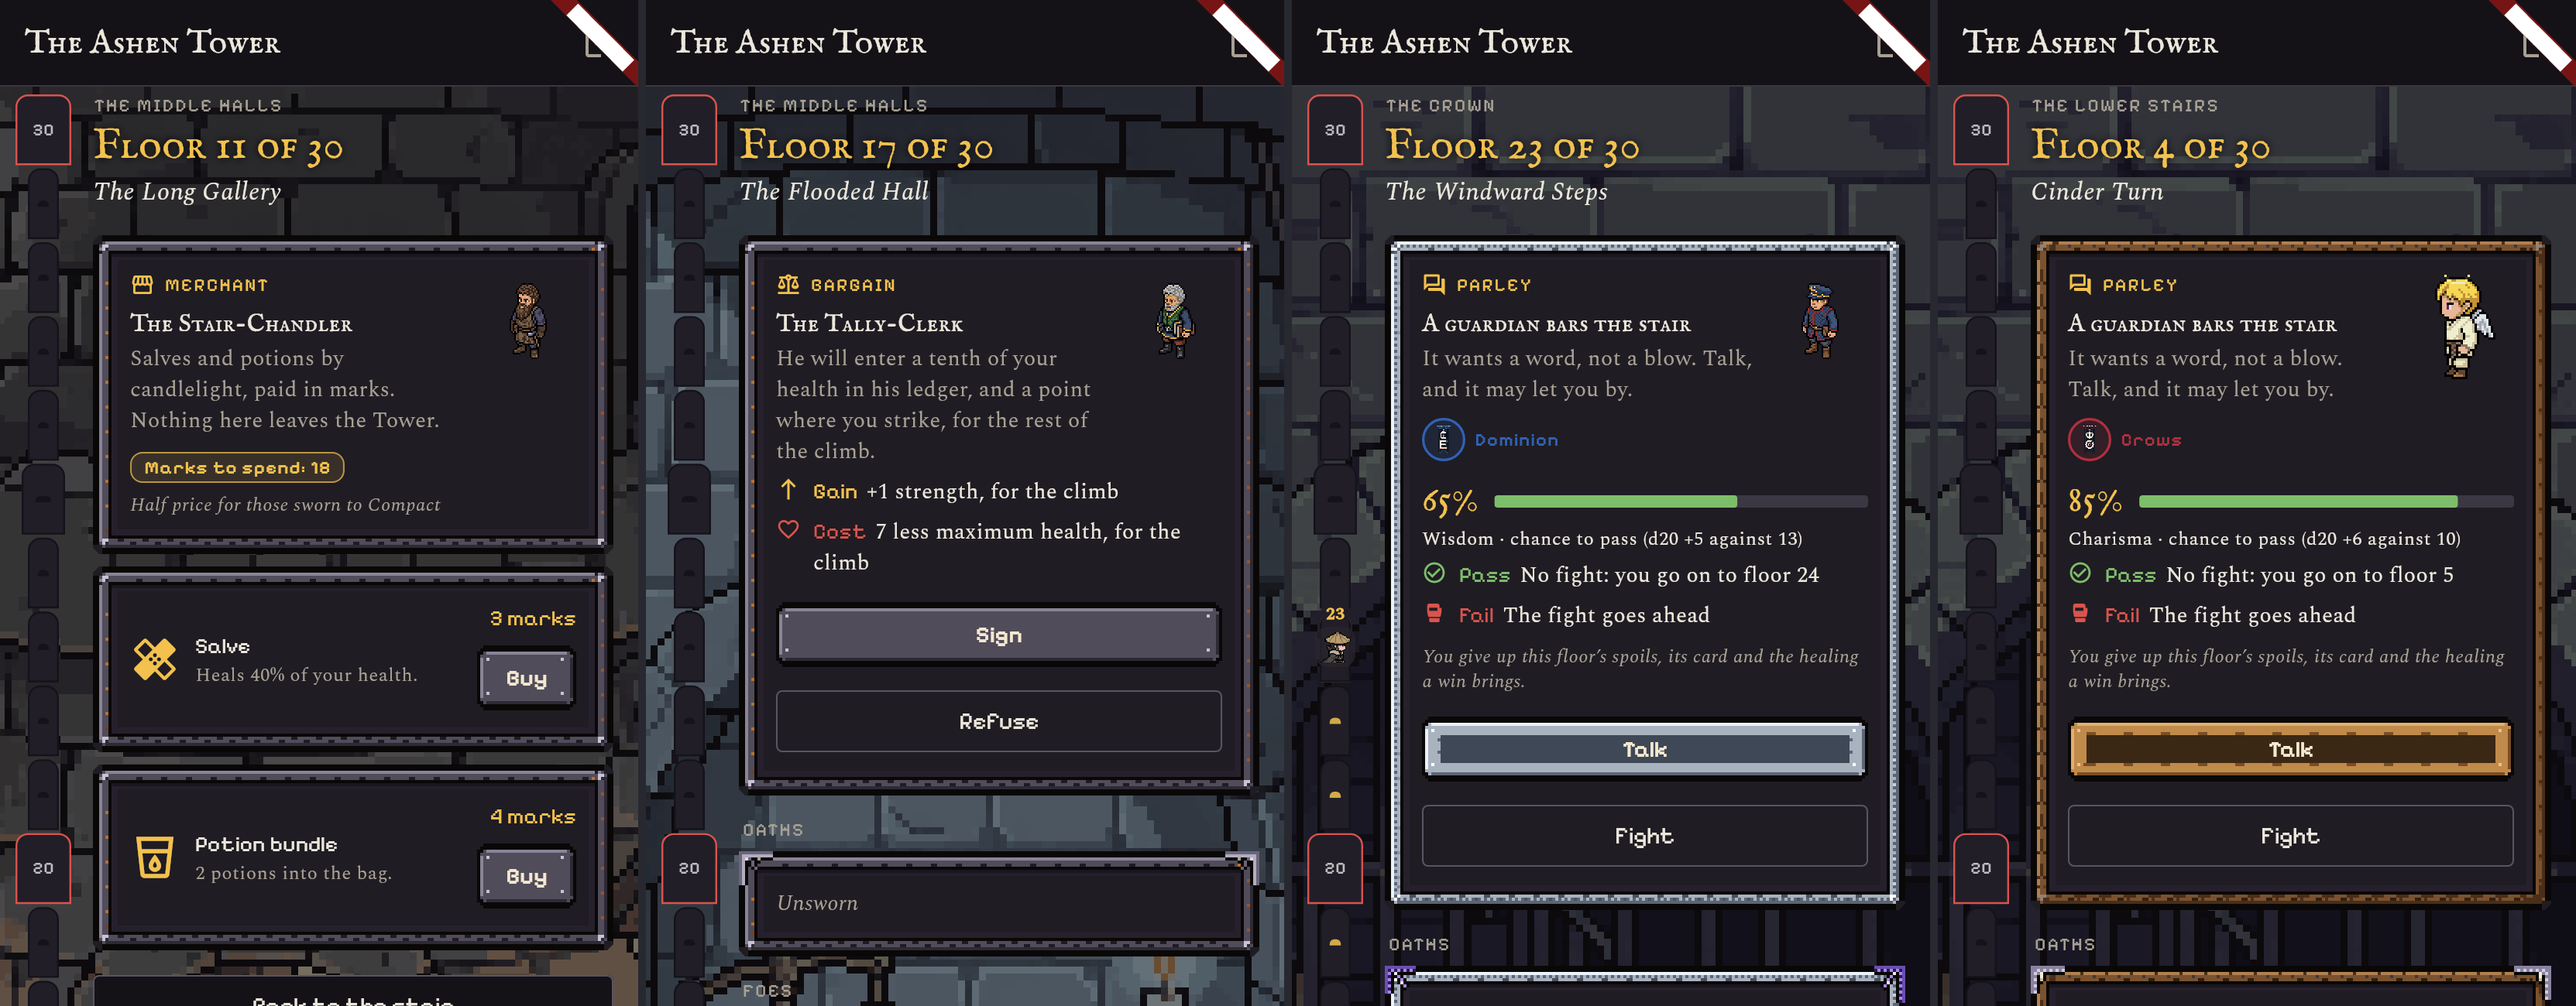
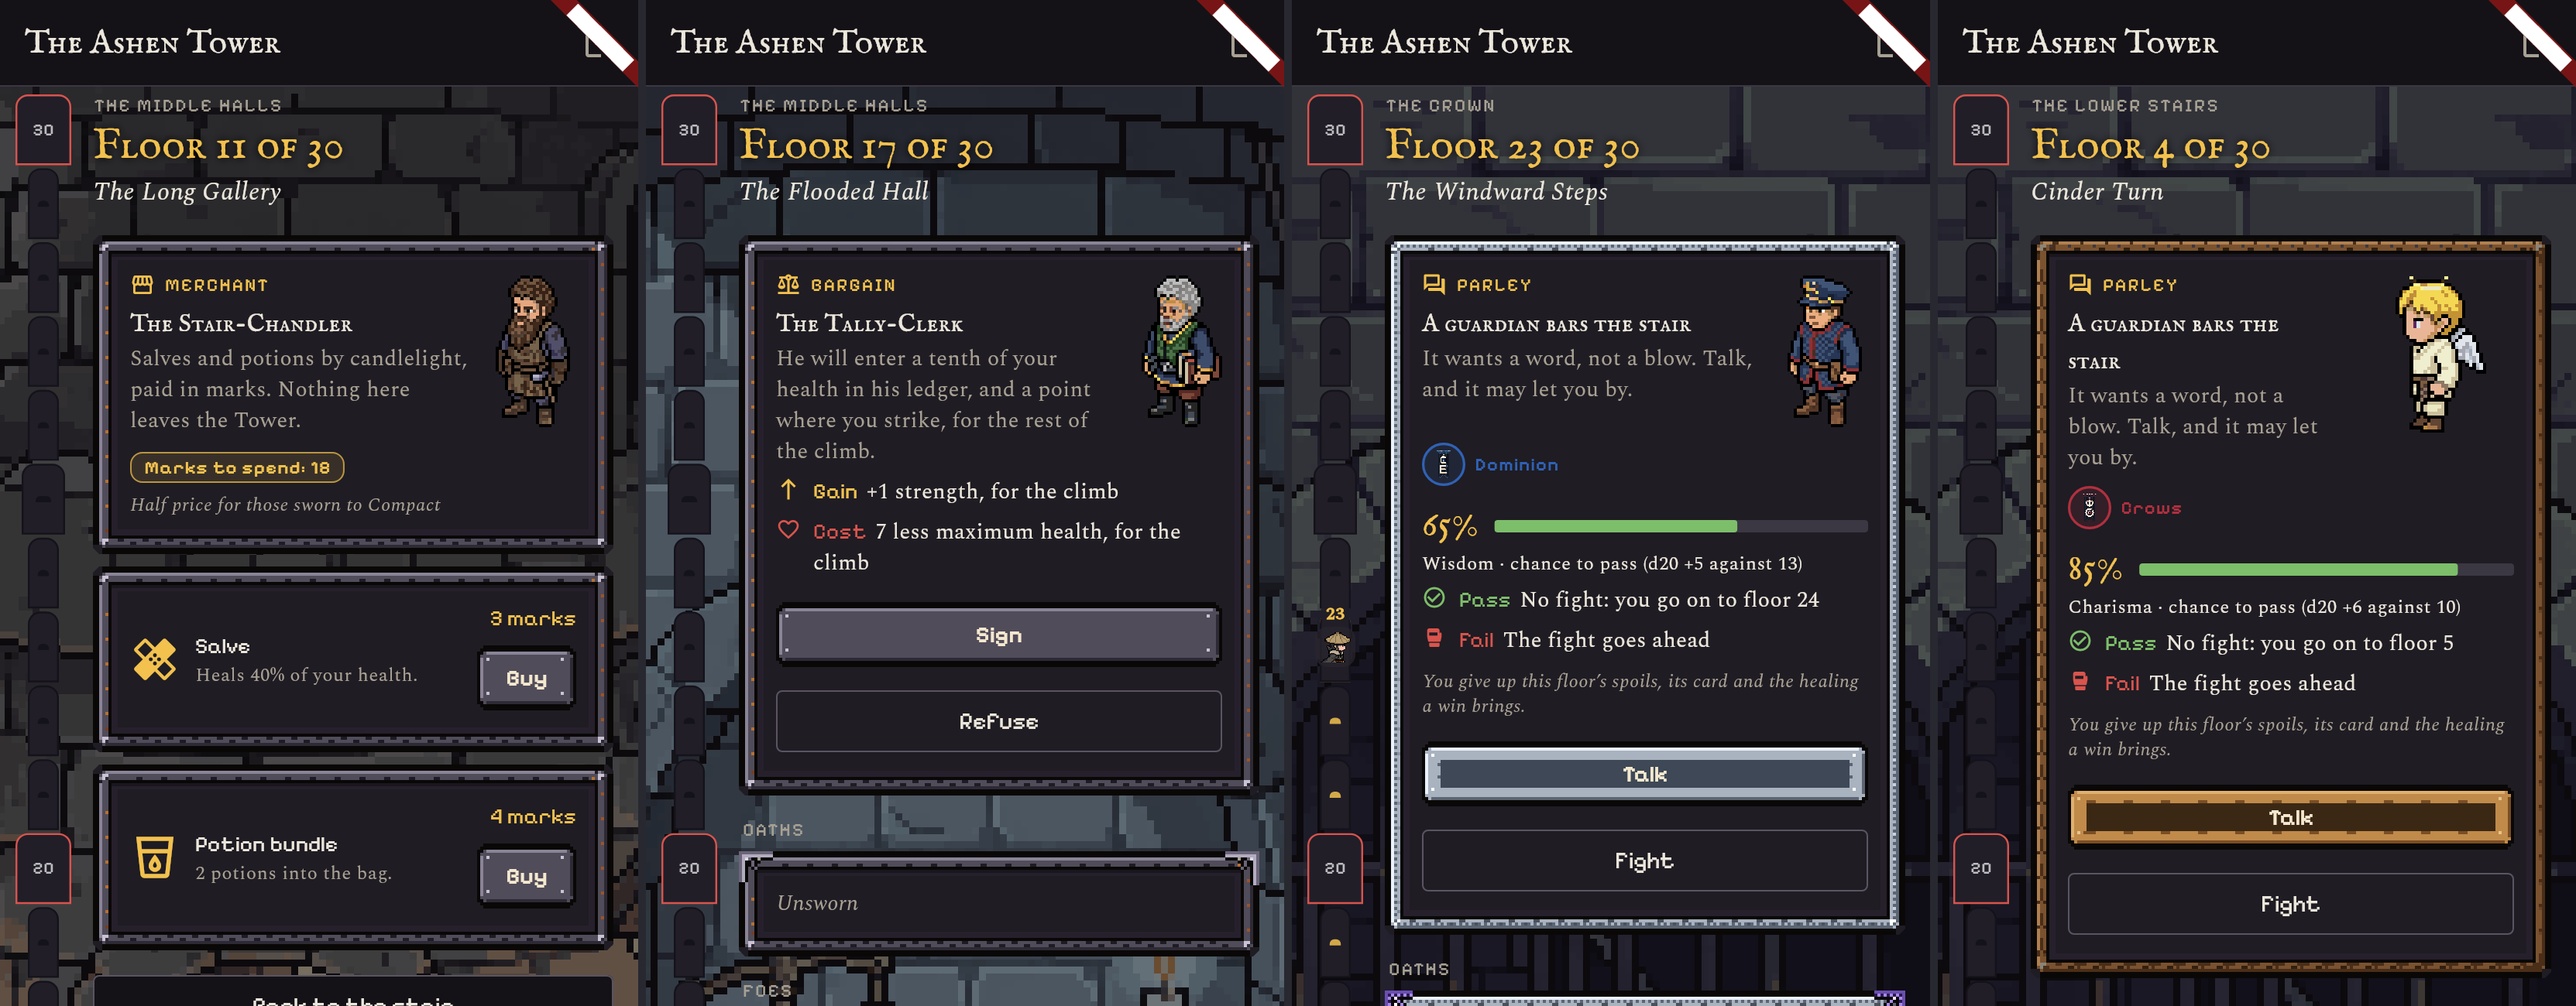
v1.966.0: the Tower's people on their cards at twice their size (the user's pick B)
Claude-Session: https://claude.ai/code/session_019ETFw2Y7wpHSXWG5mmACty

diff --git a/lib/screens/tower/tower_peaceful_cards.dart b/lib/screens/tower/tower_peaceful_cards.dart
@@ -35,9 +35,9 @@ const Set<String> towerNpcNames = {'chandler', 'clerk', 'guardian'};
 const Set<String> towerOfficerClans = {'dominion', 'vigil'};
 
 /// How many screen pixels one picture pixel of a figure takes, and the size of
-/// the parley's foe figure beside them (both the same height at 1 and 54).
-int towerNpcScale = 1;
-double towerParleyFoeSize = 54;
+/// the parley's foe figure beside them (the same height: 2 and 108).
+int towerNpcScale = 2;
+double towerParleyFoeSize = 108;
 
 /// A figure trimmed to the part of its 64x64 canvas that holds it (the same
 /// box for all three: 29 by 51, the feet on the bottom row).

diff --git a/lib/app_info.dart b/lib/app_info.dart
@@ -1,6 +1,6 @@
 class AppInfo {
   static const String name = 'Narrative Data App';
-  static const String version = '1.965.0';
+  static const String version = '1.966.0';
 
   static String get displayName => '$name v$version';
 }

diff --git a/test/ux_parley_shots_test.dart b/test/ux_parley_shots_test.dart
@@ -110,6 +110,7 @@ void main() {
             .buffer
             .asUint8List();
       });
+      Directory(shots!).createSync(recursive: true);
       File('$shots/$name.png').writeAsBytesSync(bytes);
     }
 

diff --git a/CHANGELOG.md b/CHANGELOG.md
@@ -8,6 +8,10 @@ and the version it bumped `pubspec.yaml` to). Format loosely follows
 History before v1.23.1 predates per-PR versioning in this repository and
 isn't reconstructable from git history alone.
 
+## [1.966.0+1002]
+
+- Tower: the people of the floors without a fight have faces (UX, the user's PixelLab characters; **invisible for players** like the cards, events version 2 only). The Stair-Chandler stands at the right of his stall's head, the Tally-Clerk beside his bargain, and the parley's guardian is the officer for a Dominion or Vigil floor; for the four other clans (Mire, Crows, Compact, Penitents) the floor's own foe stands there instead (nothing when it has no art). They are drawn at twice their size (about 100 px tall, turned a quarter toward the words), and the foe's figure at the same height. About 4 KB of PNG8 in the app.
+
 ## [1.965.0+1001]
 
 - Road crossing, desert: Art's painted layers (UX; the user's "Go for desert", with the calm four-colour sky). The desert road's sky, far mesas, mid dunes and near sand are now pictures scrolling at the code kit's own speeds (0, 0.15, 0.4, 0.8); the sun, the goal, the path, the party, the weather and the dusk tint and stars stay code and lie over them. The goal stands on the mesas' ground with a dark outline. Until the pictures are in, the code kit draws; the fight ground, the life header, the detour scenes, the world view and the other five kits keep their code look. About 4.5 KB of PNG8 in the app.
